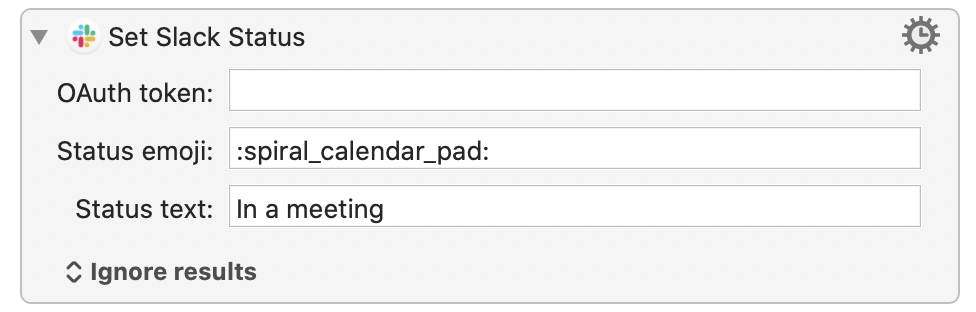
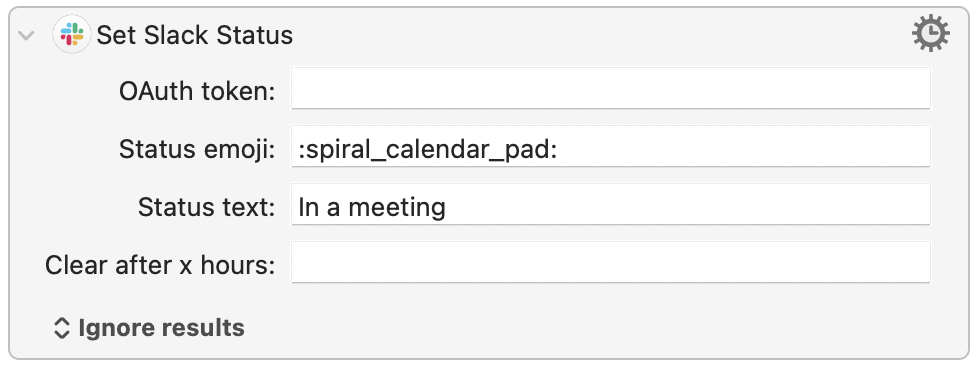
SlackStatus: Add expiry param (#3)
* SlackStatus: Add expiry param

* Update readme

diff --git a/src/set-slack-status/README.md b/src/set-slack-status/README.md
@@ -25,5 +25,6 @@ You will first need a Slack OAuth access token with the `users.profile:write` sc
 - **OAuth token**: Paste your OAuth token here.
 - **Status emoji**: An emoji identifier enclosed by colons, e.g. `:palm_tree:`. All the custom emoji for your workspace are also available.
 - **Status text**: Your status message.
+- **Clear after x hours**: Optional status expiration (in hours). This field supports [calculations](https://wiki.keyboardmaestro.com/manual/Calculations), so you can do things like `5*24` for your status to clear after 5 days, or `15/60` to clear after 15 minutes.
 
 The action will return the JSON response from the Slack server. If you save this to a variable, for example called `result`, you can easily parse this by using text tokens like `%JSONValue%result.profile%`.
